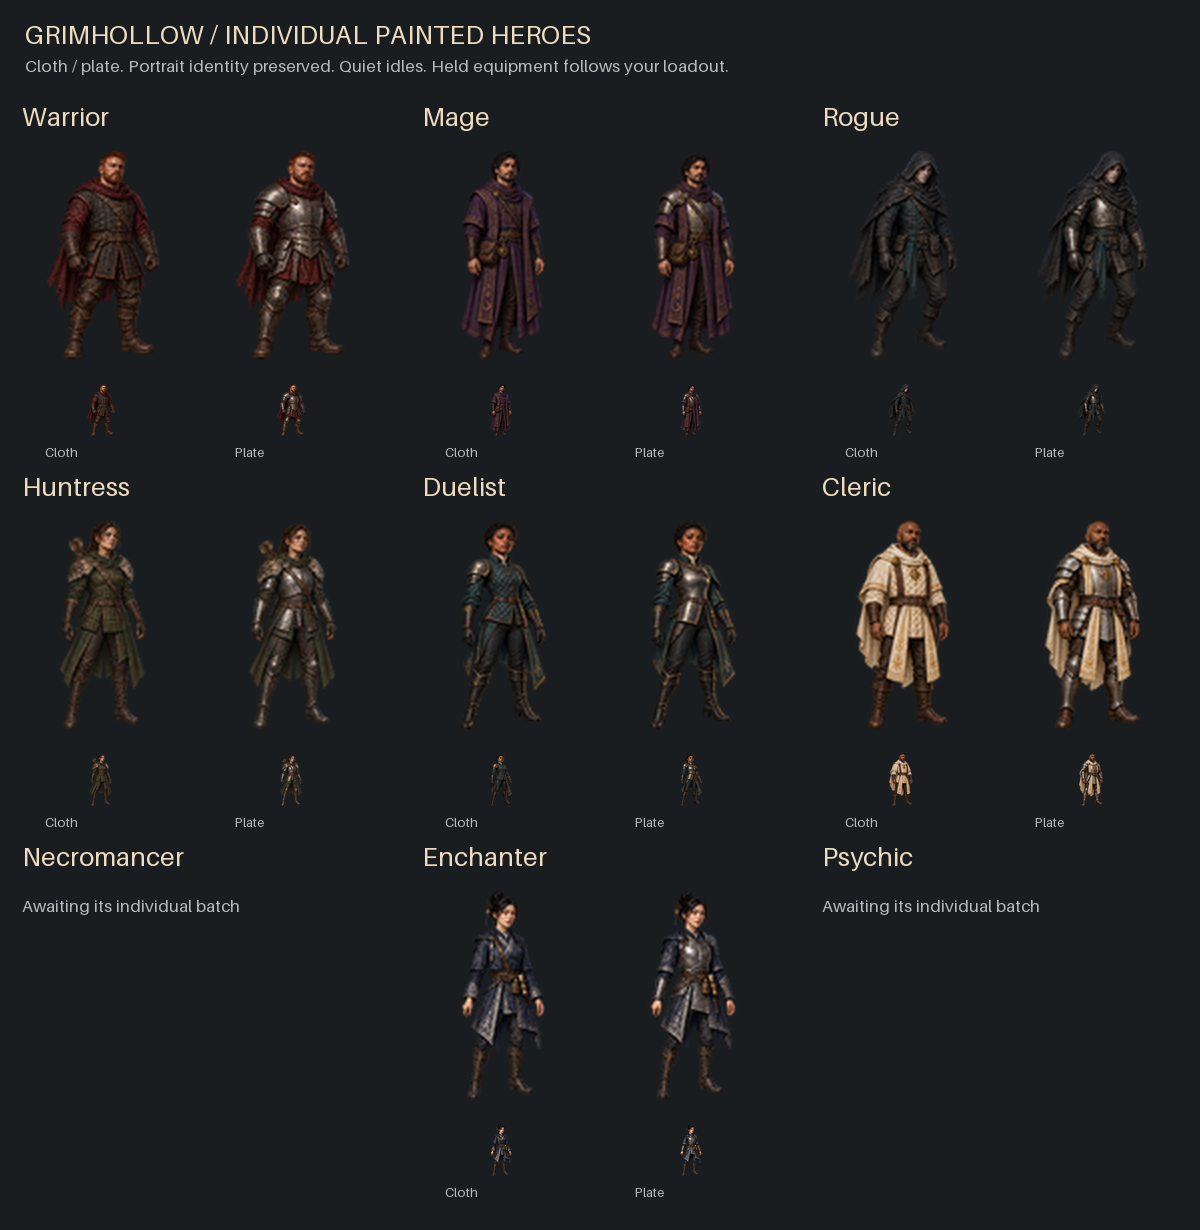
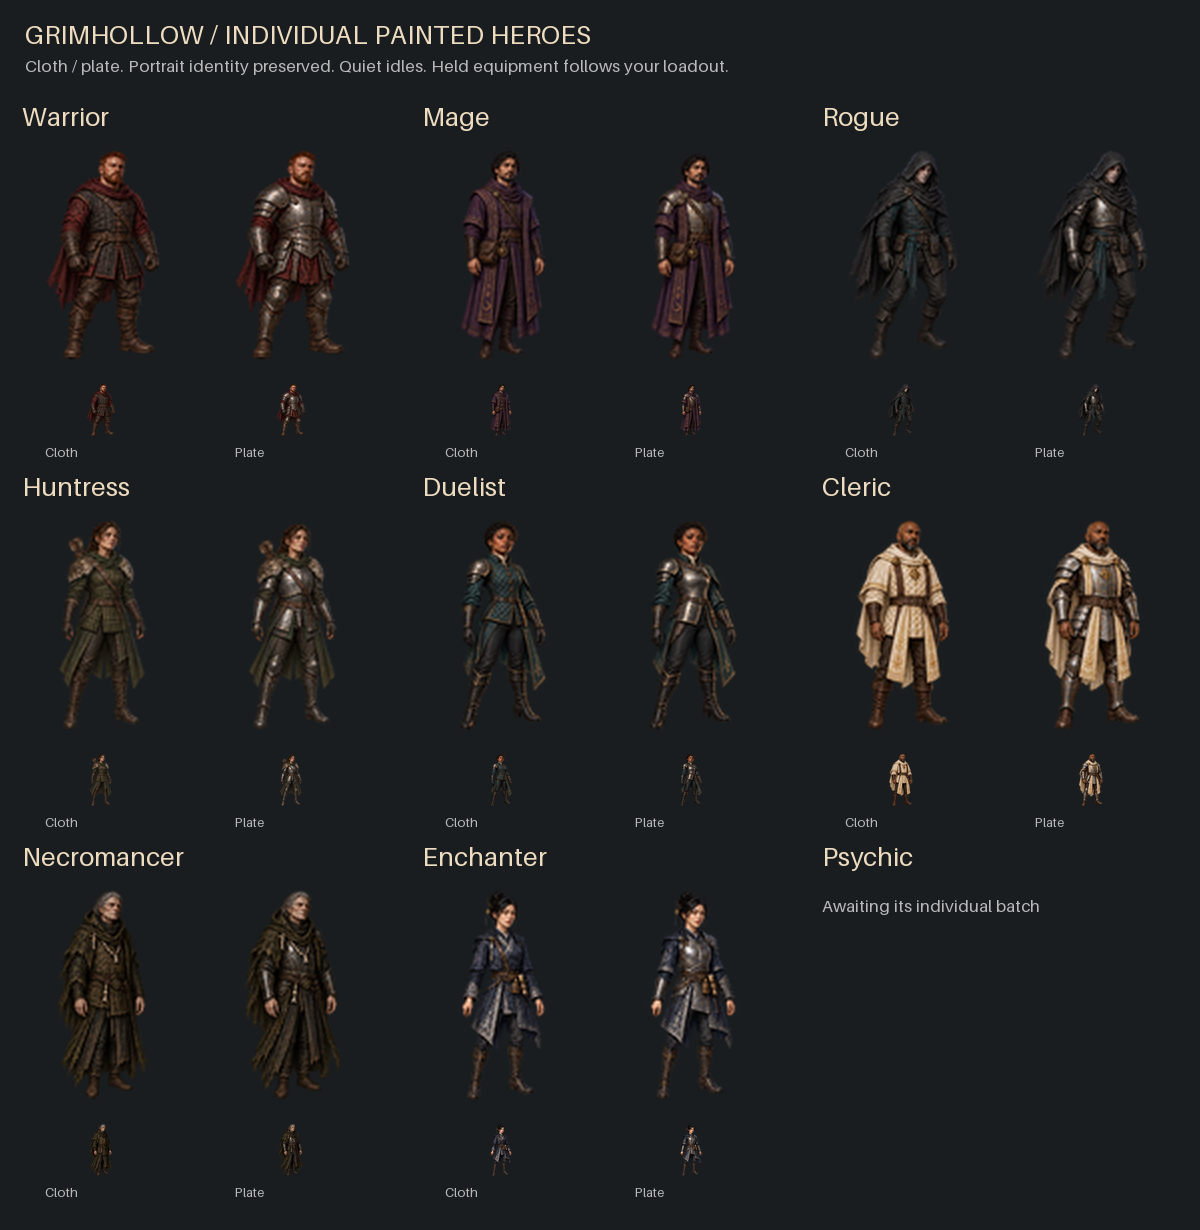
Paint Necromancer fitted armor and individual weapon-aware poses

diff --git a/core/src/main/java/com/shatteredpixel/shatteredpixeldungeon/ui/changelist/GrimhollowChanges.java b/core/src/main/java/com/shatteredpixel/shatteredpixeldungeon/ui/changelist/GrimhollowChanges.java
@@ -20,7 +20,9 @@ public final class GrimhollowChanges {
         release.addButton(new ChangeButton(icon.get(),title,text));
     }
     public static void addAllChanges(ArrayList<ChangeInfo> list) {
-        ChangeInfo r=release(list,"v1.22.4","A steadfast painted Cleric and clearer grass overlap.");
+        ChangeInfo r=release(list,"v1.22.5","A gaunt painted Necromancer.");
+        note(r,Icons.TALENT,"Necromancer presentation","Necromancer retains the elderly portrait face, silver hair and bone charms in a gaunt olive-black silhouette. Fitted armor preserves the stoop and asymmetric cowl, with subtle robe motion and equipped weapons. Gameplay and timing remain unchanged.");
+        r=release(list,"v1.22.4","A steadfast painted Cleric and clearer grass overlap.");
         note(r,Icons.TALENT,"Cleric presentation","Cleric gains ivory cape and stole panels over fitted armor, with his portrait face and grounded natural proportions. Grass in the row behind upper bodies now draws behind them while blades remain around feet. Gameplay and timing remain unchanged.");
         r=release(list,"v1.22.3","A poised painted Duelist.");
         note(r,Icons.TALENT,"Duelist presentation","Duelist gains a fencing stance, fitted teal doublet, ivory collar and asymmetric shoulder armor, with her portrait identity and natural proportions. Equipped and ability-selected weapons follow her grip. Gameplay and timing remain unchanged.");

diff --git a/README.md b/README.md
@@ -2,7 +2,7 @@
 
 v1.22.1 includes 2 of seven additional painted heroes, following the weapon-aware Warrior/Enchanter pilot and the sprint's interface, Horror, rune, Psychic and icon fixes. Each hero is reviewed at a committed batch boundary; remaining batches are listed below.
 
-v1.20.1 is a **Warrior and Enchanter art proof of concept**: proportioned painted bodies, class-fitted armor, distinct silhouettes and restrained motion with still idles. Faces match the existing selection portraits. Gameplay, world height and animation timings are unchanged; the other seven heroes await review of this pilot. Comparisons, pose sheets and animation previews are in [verification/heroes/pilot](verification/heroes/pilot/). Windows launcher: `desktop/build/windows/1.22.4/Grimhollow/Grimhollow.exe`; Android: `android/build/outputs/apk/debug/android-debug.apk`.
+v1.20.1 is a **Warrior and Enchanter art proof of concept**: proportioned painted bodies, class-fitted armor, distinct silhouettes and restrained motion with still idles. Faces match the existing selection portraits. Gameplay, world height and animation timings are unchanged; the other seven heroes await review of this pilot. Comparisons, pose sheets and animation previews are in [verification/heroes/pilot](verification/heroes/pilot/). Windows launcher: `desktop/build/windows/1.22.5/Grimhollow/Grimhollow.exe`; Android: `android/build/outputs/apk/debug/android-debug.apk`.
 
 v1.19.2 refreshes Adventuring Notes with painted terrain/landmark icons and fitted NPC portraits. Discovered elemental treasuries receive persistent fire, water or lightning reminders, including preparation tips, until their seals are opened. The home-screen Update Log describes these releases.
 
@@ -50,7 +50,7 @@ For rapid testing, open **Menu → Playtest → enable for this save → Travel 
 
 Existing saves remain compatible, but the hunter is not retroactively inserted into an already generated City floor. A new run is the reliable way to experience the normal quest. All eight components have committed checkpoints; see [verification](verification/ACCEPTANCE.md) and [known issues](KNOWN_ISSUES.md). The existing terrain-contrast gate remains enforced and is still a known failure; no full green CI or physical-tablet playtest is claimed.
 
-Local launchers after building: `desktop/build/windows/1.22.4/Grimhollow/Grimhollow.exe` (keep its whole folder), `desktop/build/libs/desktop-1.17.1.jar`, and `android/build/outputs/apk/debug/android-debug.apk`. Android is a debug-signed sideload build.
+Local launchers after building: `desktop/build/windows/1.22.5/Grimhollow/Grimhollow.exe` (keep its whole folder), `desktop/build/libs/desktop-1.17.1.jar`, and `android/build/outputs/apk/debug/android-debug.apk`. Android is a debug-signed sideload build.
 
 Original expedition paintings, exact generation prompts and the offline packing recipe are in [sources](tools/painted/sources/expedition/), [prompts](tools/painted/expedition-prompts.json), and [packer](tools/painted/expedition.py). Native screenshots are in `verification/interface/{landscape,portrait}/expedition-*.png`; CI reconstructs the committed sources without an image-generation service.
 
@@ -244,7 +244,7 @@ By **Evan Debenham and contributors**: [Shattered Pixel Dungeon project](https:/
 
 ## Next sprint: playtesting fixes and character presentation
 
-Sprint in progress, updated 2026-10-04: components 1–6 delivered in v1.21.0–1.21.5; component 7 has delivered 5 of seven additional hero batches through Cleric v1.22.4. This incorporates the latest playtesting discussion and supersedes earlier proposals to expose a recovering Horror on ordinary sight, remove the Seer passive, or allow Crystal inventory casting without a talent. In-game Playtest access is already delivered in v1.20.2 and is not a new sprint task.
+Sprint in progress, updated 2026-10-04: components 1–6 delivered in v1.21.0–1.21.5; component 7 has delivered 6 of seven additional hero batches through Necromancer v1.22.5. This incorporates the latest playtesting discussion and supersedes earlier proposals to expose a recovering Horror on ordinary sight, remove the Seer passive, or allow Crystal inventory casting without a talent. In-game Playtest access is already delivered in v1.20.2 and is not a new sprint task.
 
 ### Component 1 - Positioning, grass and notification fixes
 

diff --git a/verification/ACCEPTANCE.md b/verification/ACCEPTANCE.md
@@ -1,3 +1,9 @@
+# Sprint component 7 - Necromancer v1.22.5
+
+- Windows/Android build and seven JUnit tests: **BUILD SUCCESSFUL in 44s**; native Windows application packaged. Focused reproducibility: **PAINTED assets=1 source sheets=148 failures=0**.
+- Existing geometry: **HERO EQUIPMENT: native draws=1536 cloth/plate, both facings, eight loadouts, movement/action poses, secondary and thrown capture; failures=0**. Nine heroes, 126 creature sprites, 386 items and 60 identity emblems pass. Source, fitted cloth/plate poses, animation preview and actual lit/unlit dungeon captures reviewed in verification/heroes/necromancer/.
+- No gameplay or timings changed. Test 45 remains abandoned and is not run. Physical tablet and campaign review remain with the user.
+
 # Sprint component 7 - Cleric v1.22.4
 
 - Windows/Android build and seven JUnit tests: **BUILD SUCCESSFUL in 46s**; native Windows application packaged. Focused reproducibility: **PAINTED assets=1 source sheets=147 failures=0**.

diff --git a/CHANGES.md b/CHANGES.md
@@ -1,3 +1,8 @@
+# Sprint component 7 - Necromancer v1.22.5
+
+- Necromancer retains the elderly portrait face, silver hair and bone charms in a thin olive-black figure with an asymmetric ragged cowl. Armor follows the individual silhouette, with subtle robe motion and a separate layer for the equipped weapon.
+- Committed source and prompt compile offline into the existing eight armor rows and 21 poses, with class-specific grip/motion. Gameplay, world height and combat timings are unchanged.
+
 # Sprint component 7 - Cleric v1.22.4
 
 - Cleric keeps his portrait face, ivory cape and long stole panels over armor fitted to a grounded natural silhouette. Complete the grass depth repair: foreground blades in the row above upper bodies move to a cached background pass, while current-cell blades remain around feet. Use synchronized actor snapshots when summons appear; terrain art, fog and rules are unchanged.
